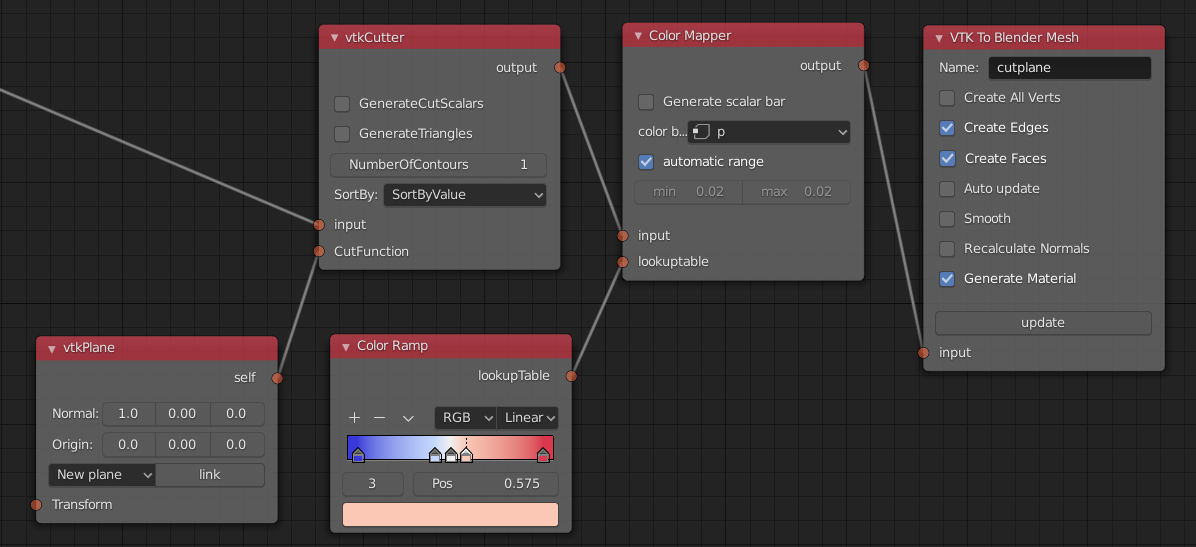
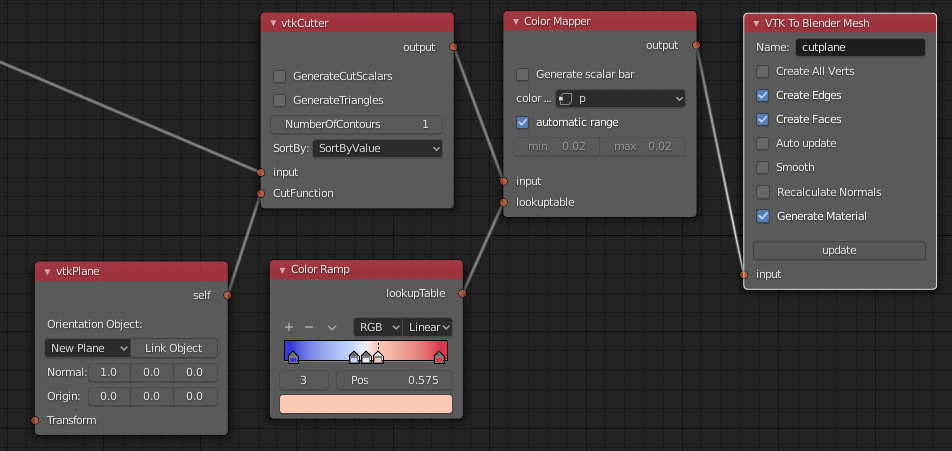
Add customized vtkPlane to docs

Changed region(s): [[0.0, 0.0, 1.0, 0.9933], [0.5788, 0.3415, 0.6092, 0.3725]]

diff --git a/docs/BVTKNodes.rst b/docs/BVTKNodes.rst
@@ -286,8 +286,8 @@ VTK Nodes
 All node names that start with lower case text 'vtk' using
 `camel case naming convention <https://en.wikipedia.org/wiki/Camel_case>`_
 represent the `VTK classes <https://vtk.org/doc/nightly/html/classes.html>`_
-directly, for example *vtkArrowSource*. Other nodes are additional
-special nodes for BVTKNodes discussed below.
+directly, for example *vtkArrowSource*. All other nodes are
+`special nodes`_ for BVTKNodes.
 
 Some VTK classes include several overlapping methods to specify
 values, e.g. *vtkConeSource* has options for Angle, Height and Radius,
@@ -330,6 +330,24 @@ Editing of Custom Code is done using Blender Text Editor:
   *Properties* Tab. Updated code is shown on the node bottom when mouse
   cursor enters BVTK Node Tree area (see bottom example in
   :ref:`extract_boundary_surfaces`, *vtkOpenFoamReader* node)
+
+
+Customized VTK Nodes
+--------------------
+
+Various VTK nodes have been customized to ease use in Blender
+(see `Customization of Node Python Code`_):
+
+vtkPlane
+^^^^^^^^
+
+This node specifies an infinite plane suitable for e.g. slicing 3D VTK
+cell data (see example :ref:`cutting_field_data`). Plane can be
+specified by manual input of **Normal** and **Origin** vectors, or by
+selecting an existing Blender Object or New Plane from the dropdown
+menu and then run **Link Object**. When linked, the location and
+rotation of the Blender Object is used to calculate Normal and Origin
+for *vtkPlane*. Run **Unlink Object** to remove link.
 
 
 Special Nodes

diff --git a/docs/ug_nodes.rst b/docs/ug_nodes.rst
@@ -107,6 +107,8 @@ You can use
 .. image:: images/ug_array_calculator_nodesetup.png
 
 
+.. _cutting_field_data:
+
 Cutting Field Data
 ------------------
 
